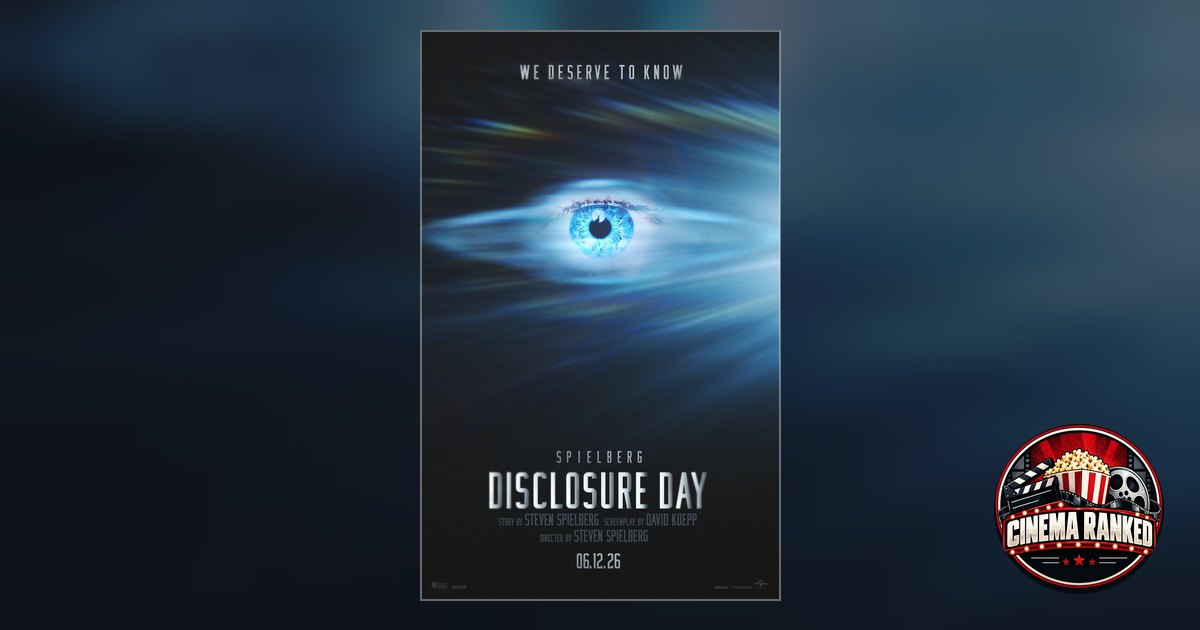
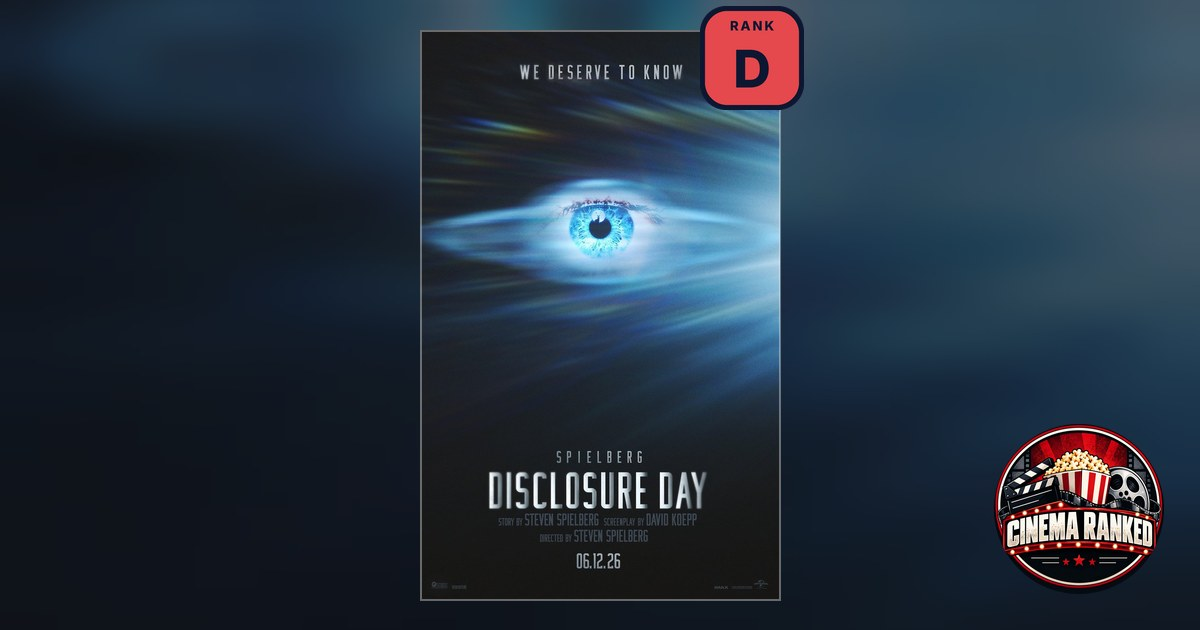
Poster + rank badge on Cinema Ranked blog cards and share cards (#37)
* Show poster + rank badge on blog cards for poster posts

Poster is cropped/zoomed per post (card_focus/card_zoom); the Cinema Ranked
logo tile stays as the backdrop/fallback if the poster fails to load.

Claude-Session: https://claude.ai/code/session_01KZhTWFBShZ1vxEozpjhrmY

* Add rank badge to Cinema Ranked share cards

Regenerates the Disclosure Day and Street Fighter share cards with the tier
stamp on the poster corner, and adds a -Rank option to make-og-card.ps1.

Claude-Session: https://claude.ai/code/session_01KZhTWFBShZ1vxEozpjhrmY

---------

Changed region(s): [[0.5858, 0.0, 0.6783, 0.181]]

diff --git a/_includes/post-card.html b/_includes/post-card.html
@@ -7,7 +7,19 @@
 {%- endcomment -%}
 <a class="post-card" data-tags="{{ include.post.tags | join: '|' }}" href="{{ include.post.url | relative_url }}">
   {%- assign _img = include.post.card_image | default: include.post.image %}
-  {%- if _img == '/assets/images/blog-header.jpg' %}
+  {%- if include.post.poster %}
+  {%- comment -%}
+    Poster posts: the poster (cropped/zoomed on `card_focus:` / `card_zoom:`) with
+    the rank stamp; the logo tile (`card_image:`) is the backdrop, so it shows if
+    the poster fails to load.
+  {%- endcomment -%}
+  {%- assign _focus = include.post.card_focus | default: "50% 30%" %}
+  {%- assign _zoom = include.post.card_zoom | default: 1 %}
+  <span class="post-card-img post-card-img--poster" style="background-image: url('{{ _img | relative_url }}'); --focus: {{ _focus }}; --zoom: {{ _zoom }};">
+    <img src="{{ include.post.poster | relative_url }}" alt="" loading="lazy" onerror="this.remove()">
+    {%- if include.post.rank %}<span class="rank-badge rank-badge--card" data-rank="{{ include.post.rank | upcase }}" aria-label="Rank {{ include.post.rank | upcase }}"><small>RANK</small>{{ include.post.rank | upcase }}</span>{% endif %}
+  </span>
+  {%- elsif _img == '/assets/images/blog-header.jpg' %}
   <span class="post-card-img post-card-img--placeholder"><img src="{{ '/assets/images/gd-bear-icon.png' | relative_url }}" alt="" loading="lazy"></span>
   {%- else %}
   <img class="post-card-img" src="{{ _img | relative_url }}" alt="" loading="lazy">

diff --git a/assets/css/main.css b/assets/css/main.css
@@ -1246,6 +1246,35 @@ a { text-decoration: none; color: inherit; }
 
 .post-card-img--placeholder img { width: 56px; height: auto; opacity: 0.9; }
 
+.post-card-img--poster {
+  position: relative;
+  overflow: hidden;
+  background-size: cover;
+  background-position: center;
+}
+.post-card-img--poster img {
+  position: absolute;
+  inset: 0;
+  width: 100%;
+  height: 100%;
+  object-fit: cover;
+  object-position: var(--focus, 50% 30%);
+  transform: scale(var(--zoom, 1));
+  transform-origin: var(--focus, 50% 30%);
+}
+.post-card .rank-badge--card {
+  top: 10px;
+  right: auto;
+  left: 10px;
+  width: 44px;
+  height: 44px;
+  border-radius: 12px;
+  border-width: 2px;
+  font-size: 22px;
+  z-index: 1;
+}
+.post-card .rank-badge--card small { font-size: 7px; }
+
 .post-card-body {
   flex: 1;
   min-width: 0;

diff --git a/_posts/2026-10-20-cinema-ranked-disclosure-day.md b/_posts/2026-10-20-cinema-ranked-disclosure-day.md
@@ -8,6 +8,8 @@ card_image: /assets/images/blog/cinema-ranked-card.jpg
 header_image: /assets/images/blog/cinema-ranked-header.jpg
 poster: /assets/images/blog/disclosure-day-poster.jpg
 poster_alt: "Disclosure Day theatrical poster: a glowing blue eye in streaks of light, tagline We Deserve to Know, directed by Steven Spielberg."
+card_focus: "50% 35%"
+card_zoom: 1.6
 rank: D
 excerpt: "Kris on Steven Spielberg's Disclosure Day: an intriguing premise, a disjointed and predictable story, a toothless climax, and a D-tier verdict for 2026."
 description: "Kris reviews Spielberg's Disclosure Day: a predictable story, a toothless climax and a dated alien reveal. Final rank: D for 2026."

diff --git a/_posts/2026-10-16-cinema-ranked-street-fighter.md b/_posts/2026-10-16-cinema-ranked-street-fighter.md
@@ -8,6 +8,8 @@ card_image: /assets/images/blog/cinema-ranked-card.jpg
 header_image: /assets/images/blog/cinema-ranked-header.jpg
 poster: /assets/images/blog/street-fighter-poster.jpg
 poster_alt: "Street Fighter theatrical poster: Chun-Li, Ken and Ryu mid-attack against a red and orange burst, tagline Ready. Set. Fight."
+card_focus: "50% 32%"
+card_zoom: 1.15
 rank: B
 excerpt: "Kris saw Street Fighter in IMAX with his brother, a fellow lifelong player. Great visuals, a real Blanka, a few misses, and a B-rank verdict."
 description: "Kris reviews the new Street Fighter movie after seeing it in IMAX: great anime flashbacks, a convincing Blanka, uneven pacing. Final rank: B."
